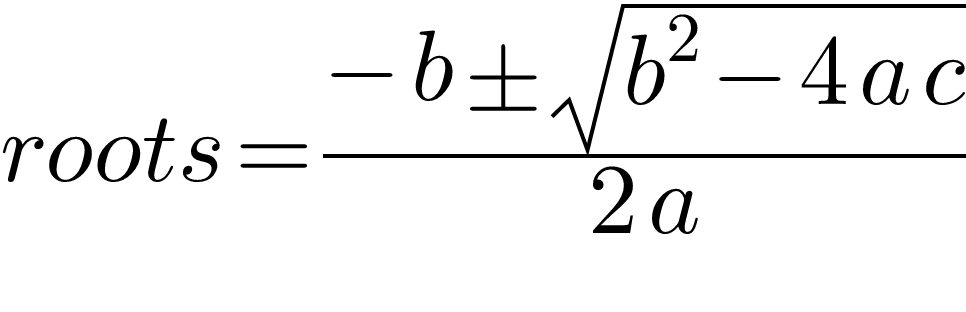
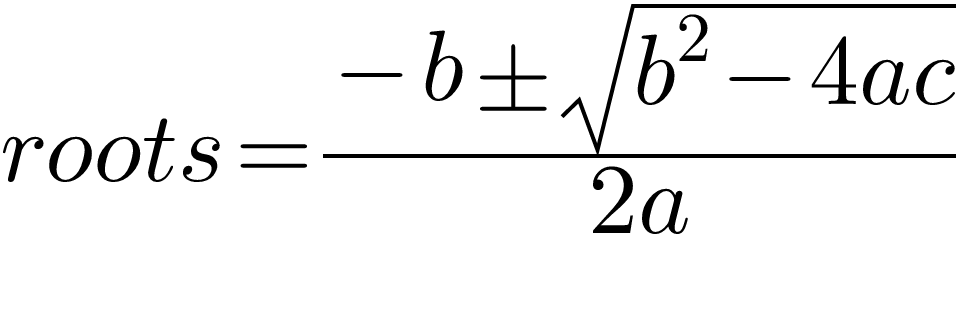
Only add spacing in row around operators

diff --git a/src/render.rs b/src/render.rs
@@ -53,7 +53,24 @@ impl Render for Mn {
 }
 impl Render for Mo {
     fn plan_render(&self, text_renderer: &mut TextRenderer, font_size: f32) -> RenderingPlan {
-        text_renderer.plan_render_text(self.operator.clone(), font_size)
+        let spacing = (font_size / 10.0).floor() as u32;
+        let RenderingPlan {
+            callback,
+            baseline,
+            width,
+            height,
+        } = text_renderer.plan_render_text(self.operator.clone(), font_size);
+        let width = width + 2 * spacing;
+        let callback =
+            move |text_renderer: &mut TextRenderer, pixmap: &mut Pixmap, x: u32, y: u32| {
+                callback(text_renderer, pixmap, x + spacing, y);
+            };
+        RenderingPlan {
+            callback: Box::new(callback),
+            baseline,
+            width,
+            height,
+        }
     }
 }
 impl Render for Msup {
@@ -152,7 +169,6 @@ impl Render for Mrow {
     fn plan_render(&self, text_renderer: &mut TextRenderer, font_size: f32) -> RenderingPlan {
         let paint = PixmapPaint::default();
         let transform = Transform::default();
-        let spacing = (font_size / 10.0).floor() as u32;
 
         let children_render_plans = self
             .terms
@@ -172,8 +188,7 @@ impl Render for Mrow {
         let width = children_render_plans
             .iter()
             .map(|child| child.width)
-            .sum::<u32>()
-            + spacing * (children_render_plans.len() - 1) as u32;
+            .sum::<u32>();
         let height = baseline + below_baseline;
 
         let callback = move |text_renderer: &mut TextRenderer,
@@ -191,7 +206,6 @@ impl Render for Mrow {
                     y + offset_y,
                 );
                 offset_in_row += child.width;
-                offset_in_row += spacing;
             });
         };
 
